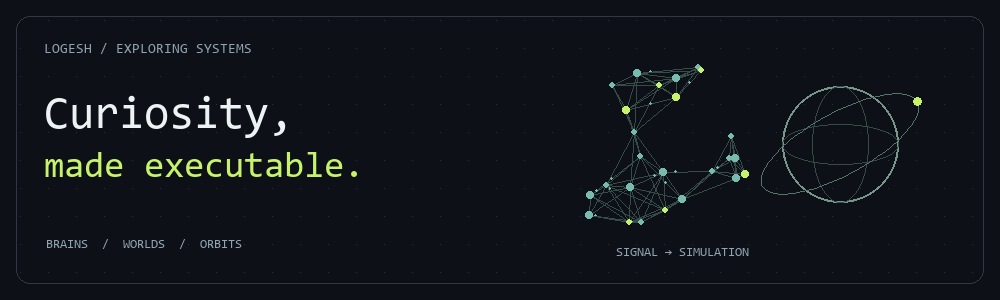
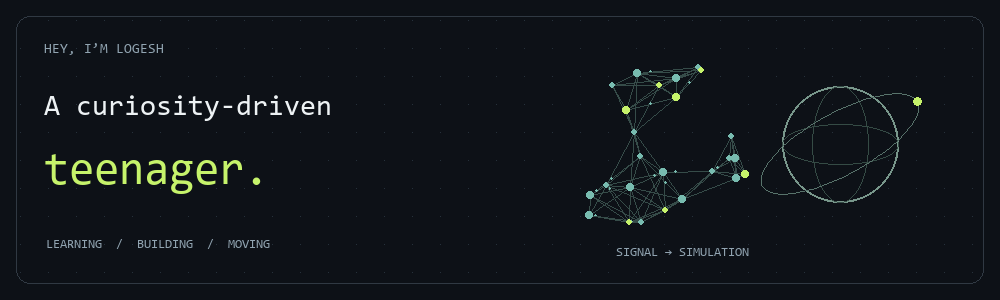
Personalize profile in Logesh's voice, add About Me animation and LeetCode links

diff --git a/src/App.tsx b/src/App.tsx
@@ -13,6 +13,7 @@ import ProjectVisual from "./components/ProjectVisual";
 
 const email = "logeshrv2006@gmail.com";
 const github = "https://github.com/Logesh-vr";
+const leetcode = "https://leetcode.com/u/Logesh4545/";
 const linkedin = "https://www.linkedin.com/in/logesh-rajaraman-665798323/";
 export default function App() {
   const [menuOpen, setMenuOpen] = useState(false);
@@ -334,6 +335,9 @@ export default function App() {
               </a>
               <a href={linkedin} target="_blank" rel="noopener noreferrer">
                 LinkedIn <ArrowUpRight size={15} />
+              </a>
+              <a href={leetcode} target="_blank" rel="noopener noreferrer">
+                LeetCode <ArrowUpRight size={15} />
               </a>
               <a href="#home">Back to top ↑</a>
             </div>

diff --git a/tests/portfolio.spec.ts b/tests/portfolio.spec.ts
@@ -67,6 +67,10 @@ test("navigation, contacts, and narrow layouts work", async ({
   await expect(
     page.getByRole("link", { name: "logeshrv2006@gmail.com" }),
   ).toHaveAttribute("href", "mailto:logeshrv2006@gmail.com");
+  await expect(page.getByRole("link", { name: "LeetCode" })).toHaveAttribute(
+    "href",
+    "https://leetcode.com/u/Logesh4545/",
+  );
   for (const width of [320, 375, 600, 768, 1024, 1440]) {
     await page.setViewportSize({ width, height: 900 });
     expect(

diff --git a/README.md b/README.md
@@ -1,15 +1,16 @@
 <picture>
   <source media="(prefers-reduced-motion: reduce)" srcset="./assets/profile/curiosity.png">
-  <img src="./assets/profile/curiosity.gif" alt="Logesh — Curiosity, made executable. Neural signals and an orbit in motion." width="1000">
+  <img src="./assets/profile/curiosity.gif" alt="Logesh — A curiosity-driven teenager. Neural signals and an orbit in motion." width="1000">
 </picture>
 
 <h1 align="center">Hey, I’m Logesh.</h1>
-<p align="center"><strong>Computer science student · Full-stack builder · AI & simulation explorer</strong></p>
-<p align="center"><samp>I like finding out how things work.<br>Then making them do something interesting.</samp></p>
+<p align="center"><strong>A curiosity-driven teenager.</strong></p>
+<p align="center"><samp>If something interests me, I go deep.<br>I like challenging myself and seeing how far I can go.</samp></p>
 
 <p align="center">
   <a href="https://github.com/Logesh-vr">GitHub</a> &nbsp; / &nbsp;
   <a href="https://www.linkedin.com/in/logesh-rajaraman-665798323/">LinkedIn</a> &nbsp; / &nbsp;
+  <a href="https://leetcode.com/u/Logesh4545/">LeetCode</a> &nbsp; / &nbsp;
   <a href="mailto:logeshrv2006@gmail.com">Say hello</a>
 </p>
 
@@ -17,29 +18,38 @@
 
 ### A little about me
 
-I’m **Logesh Rajaraman**, a B.Tech Computer Science student who likes building across disciplines—from web applications and data pipelines to neural networks and simulated worlds.
+<picture>
+  <source media="(prefers-reduced-motion: reduce)" srcset="./assets/profile/explore-move.png">
+  <img align="right" src="./assets/profile/explore-move.gif" alt="A small figure switches between experimenting at a computer and lifting a barbell." width="220">
+</picture>
 
-The projects that pull me in usually have a question at their centre: **Can neural spikes drive a body? What does an orbit look like from here? Can a dinosaur evolve its own decisions?** I enjoy turning those questions into software I can inspect, experiment with, and improve.
+I’m **Logesh**, a curiosity-driven teenager and a B.Tech Computer Science student. When I find something interesting, I want to go deep and understand it. I’m always ready to challenge myself and my limits.
 
-My focus is on understanding the mechanism, connecting the pieces, and making the result approachable. Away from the keyboard, I’m into fitness. The same rule applies to both: **be better than yesterday.**
+New things excite me, especially things I haven’t explored yet. That could be a project, a way of moving my body, music, or something completely unrelated to what I’m into right now.
 
-### Three worlds I’ve been building
+One downside: when a project stops interesting me, I tend to move on. I’m still figuring that part out.
+
+I don’t want to spend these years only being a student. I move my body a lot too—**resistance training, running, and calisthenics** are part of my life.
+
+<br clear="both">
+
+### Some things I’ve built
 
 **01 / [Virtual Fly Lab](https://github.com/Logesh-vr/fuitfly2)** &nbsp; — &nbsp; _Neural signals → movement_
 
-A published fruit-fly spiking brain model meets a simulated walking body. Sensory encoding and motor decoding close the loop; a second independent brain and physics world take the experiment one level deeper. Built as an inspectable research prototype with browser controls and activity logs.
+I connected a published fruit-fly spiking brain model to a simulated walking body, using sensory encoding and motor decoding to close the loop. There’s also a second fly with its own brain and physics world. It’s a research prototype, with browser controls and logs to inspect what happens.
 
 <sub>Python · Brian2 · MuJoCo · FlyGym</sub>
 
 **02 / [VaanThuli](https://github.com/Logesh-vr/VaanThuli)** &nbsp; — &nbsp; _Orbital elements → a sky to explore_
 
-Satellite positions calculated with SGP4, rendered on a 3D Earth, and filtered around an observer’s location. A meeting point for real data, applied mathematics, and visual engineering.
+I used SGP4 to calculate satellite positions from orbital data, then put them on a 3D Earth. You can explore the satellites and filter their ground tracks around your location.
 
 <sub>Three.js · SGP4 · Fastify</sub>
 
 **03 / [EvoTheDino](https://github.com/Logesh-vr/EvoTheDino)** &nbsp; — &nbsp; _Failed runs → better candidate brains_
 
-A JavaScript neural network senses obstacles and chooses actions in the Dino runner. Selection, crossover, and mutation breed the next generation—an experiment in AI fundamentals you can watch unfold.
+I built a neural network in JavaScript to choose actions in the Dino runner. Each generation is evaluated, and selection, crossover, and mutation produce the next set of brains. You can watch the network’s activity as it plays.
 
 <sub>JavaScript · Neural networks · Genetic algorithms</sub>
 
@@ -52,9 +62,7 @@ A JavaScript neural network senses obstacles and chooses actions in the Dino run
 | React · TypeScript · JavaScript | Python · FastAPI · Node.js | Neural networks · OpenCV · MediaPipe |
 | Flutter · Three.js              | SQL · PostgreSQL · Git     | NumPy · Pandas · Simulation          |
 
-<sub>Tools from my projects—not a checklist of everything I’ve mastered.</sub>
-
 ---
 
-<p align="center"><samp>Interesting question? Let’s build something around it.</samp><br><br>
+<p align="center"><samp>Got something interesting to share? Say hi.</samp><br><br>
 <a href="mailto:logeshrv2006@gmail.com">logeshrv2006@gmail.com</a></p>
